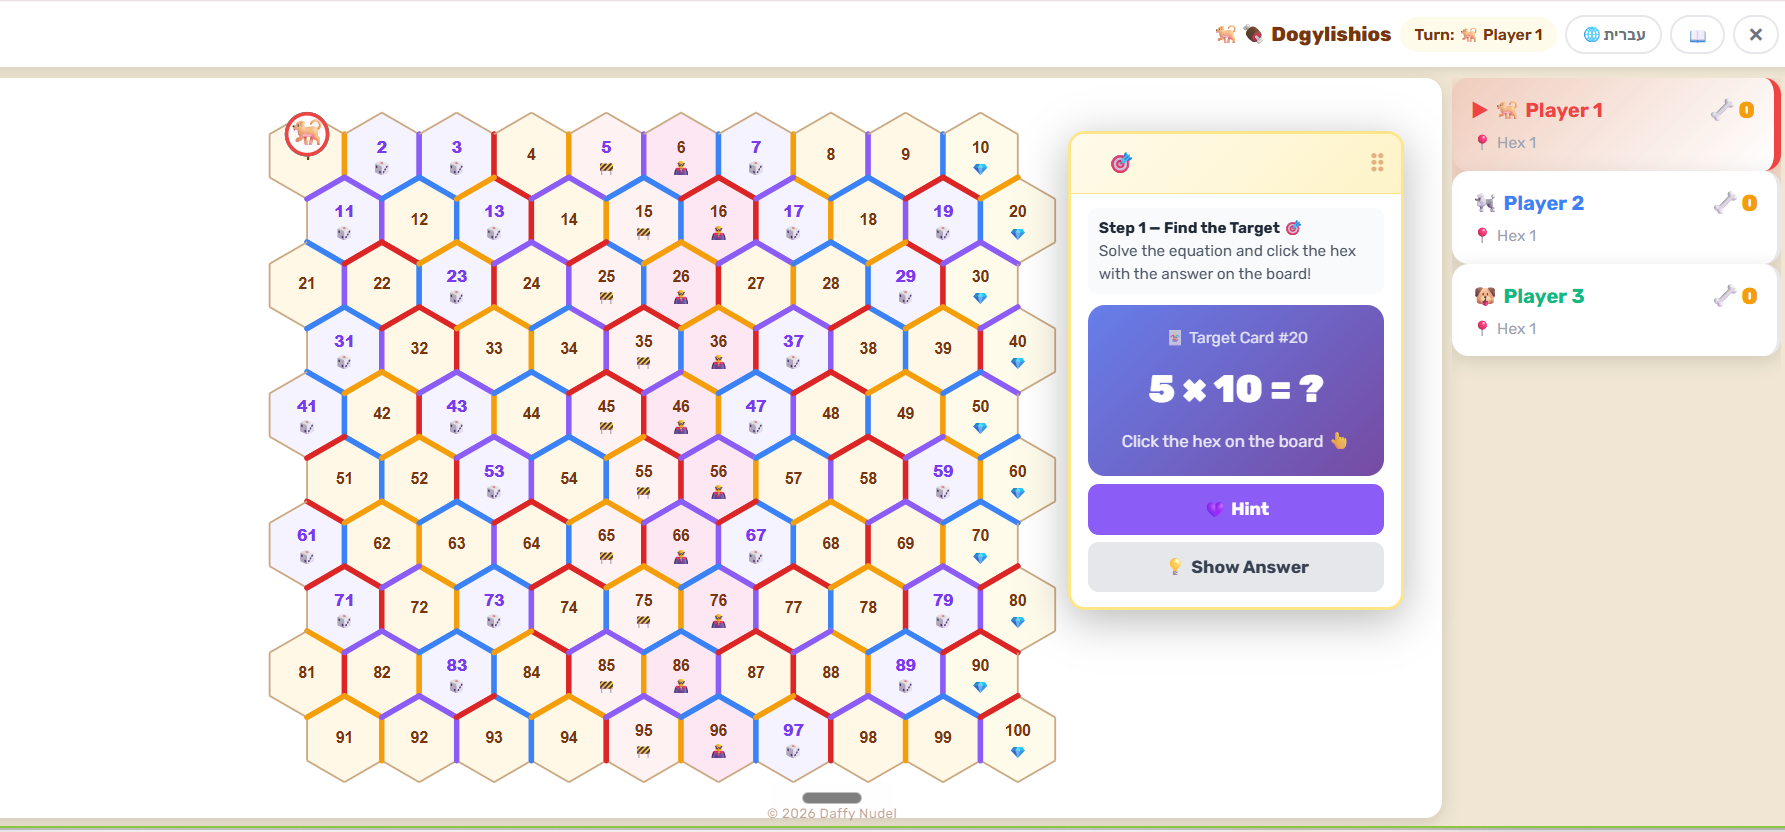
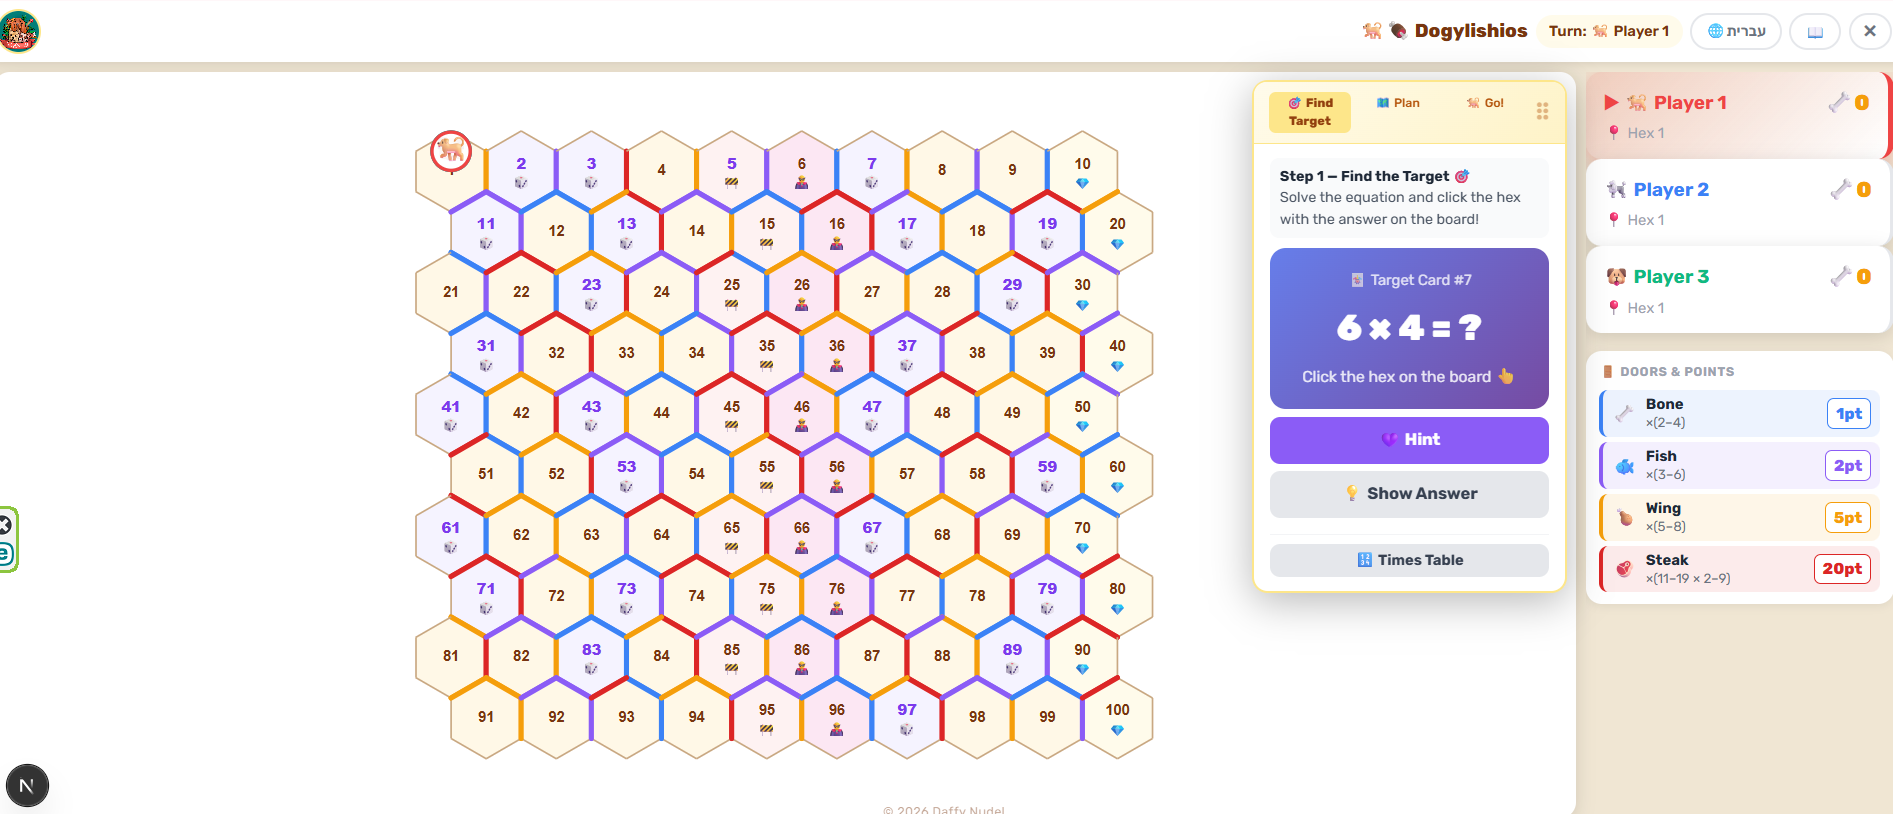
Integrate cropped game screenshots into instruction pages
Updated screenshots and created focused crops:
- Target card crop on "Find the Target" page (replaces SVG/HTML)
- Board crop on "Special Symbols" page (shows real symbols)
- Panel crop on "Plan Route" page (shows door legend)
- Full screenshot on "Game Screen" overview page

Changed region(s): [[0.0, 0.0, 1.0, 1.0], [0.0, 0.6143, 0.0308, 0.7064]]

diff --git a/lib/i18n/he.ts b/lib/i18n/he.ts
@@ -171,12 +171,12 @@ export const he: Dict = {
        {
          i: "🎯",
          t: "שלב 1 — מוצאים את היעד",
-         x: '<div style="display:flex;flex-direction:column;align-items:center;margin:0 0 12px"><div style="display:inline-block;border:2px solid #e2e8f0;border-radius:12px;padding:10px 28px;background:#f8fafc"><div style="font-size:12px;color:#64748b;text-align:center">🎯 כרטיס יעד</div><div style="font-size:22px;font-weight:bold;color:#1e293b;text-align:center;margin-top:4px;direction:ltr;unicode-bidi:bidi-override">6 × 4 = ?</div></div></div>שולפים כרטיס יעד עם תרגיל חשבון, למשל: <strong><span dir="ltr">6 × 4 = ?</span></strong><br><br>פותרים בראש 🧠 ולוחצים על המשושה עם התשובה (24) בלוח!<br><br>טעות? <strong>אפשר לנסות שוב כמה פעמים שרוצים!</strong> 😊<br>רוצים עזרה? אפשר לבחור רמז 💡, או ללחוץ "הראה תשובה".<br><br>ℹ <strong>בשלב הזה אין הגבלת זמן!</strong>',
+         x: '<div style="margin:0 0 10px;border-radius:12px;overflow:hidden;border:2px solid #e2e8f0;max-width:300px;margin-left:auto;margin-right:auto"><img src="/crop-target-he.png" alt="כרטיס היעד" style="width:100%;display:block"/></div>שולפים כרטיס יעד עם תרגיל חשבון, למשל: <strong><span dir="ltr">6 × 4 = ?</span></strong><br><br>פותרים בראש 🧠 ולוחצים על המשושה עם התשובה (24) בלוח!<br><br>טעות? <strong>אפשר לנסות שוב כמה פעמים שרוצים!</strong> 😊<br>רוצים עזרה? אפשר לבחור רמז 💡, או ללחוץ "הראה תשובה".<br><br>ℹ <strong>בשלב הזה אין הגבלת זמן!</strong>',
        },
        {
          i: "🗺",
          t: "שלב 2 — מתכננים מסלול",
-         x: '<div style="display:flex;flex-direction:column;align-items:center;margin:0 0 8px"><svg width="140" height="130" viewBox="-5 0 250 245" xmlns="http://www.w3.org/2000/svg"><polygon points="120,20 207,70 207,170 120,220 33,170 33,70" fill="#FFF8E7" stroke="#C9A882" stroke-width="2"/><line x1="120" y1="20" x2="207" y2="70" stroke="#3B82F6" stroke-width="14" stroke-linecap="round"/><line x1="207" y1="70" x2="207" y2="170" stroke="#8B5CF6" stroke-width="14" stroke-linecap="round"/><line x1="207" y1="170" x2="120" y2="220" stroke="#F59E0B" stroke-width="14" stroke-linecap="round"/><line x1="120" y1="220" x2="33" y2="170" stroke="#EF4444" stroke-width="14" stroke-linecap="round"/><line x1="33" y1="170" x2="33" y2="70" stroke="#DC2626" stroke-width="14" stroke-linecap="round"/><line x1="33" y1="70" x2="120" y2="20" stroke="#3B82F6" stroke-width="14" stroke-linecap="round"/><text x="120" y="120" text-anchor="middle" dominant-baseline="middle" font-size="36" font-weight="700" fill="#78350F" font-family="Arial,sans-serif">42</text></svg></div>לוחצים על משושים לבניית המסלול ליעד.<br>לא לשכוח לסמן גם את משושה היעד עצמו!<br><br>הצבעים מסמנים את קושי התרגיל ומספר הגרגירים שפתירתו ומעבר למשושה הסמוך מוסיפים לבנק:<br><br><div style="display:flex;flex-direction:column;gap:6px;margin:8px 0;font-size:.85em"><div style="padding:6px 10px;background:#EFF6FF;border-radius:8px;border-right:4px solid #3B82F6">🦴 <strong style="color:#3B82F6">כחול — עצם</strong>: לוח הכפל עד 4, למשל <span dir="ltr">3 × 4 = 12</span> — <strong>1 גרגיר</strong> לצעד</div><div style="padding:6px 10px;background:#F5F3FF;border-radius:8px;border-right:4px solid #8B5CF6">🐟 <strong style="color:#8B5CF6">סגול — דג</strong>: לוח הכפל עד 6, למשל <span dir="ltr">4 × 5 = 20</span> — <strong>2 גרגירים</strong> לצעד</div><div style="padding:6px 10px;background:#FFFBEB;border-radius:8px;border-right:4px solid #F59E0B">🍗 <strong style="color:#F59E0B">צהוב — כנף</strong>: לוח הכפל עד 8, למשל <span dir="ltr">6 × 7 = 42</span> — <strong>5 גרגירים</strong> לצעד</div><div style="padding:6px 10px;background:#FEF2F2;border-radius:8px;border-right:4px solid #EF4444">🌭 <strong style="color:#EF4444">אדום — נקניקיה</strong>: לוח הכפל 7–9, למשל <span dir="ltr">8 × 9 = 72</span> — <strong>10 גרגירים</strong> לצעד</div><div style="padding:6px 10px;background:#FEF2F2;border-radius:8px;border-right:4px solid #DC2626">🥩 <strong style="color:#DC2626">אדום-כהה — סטייק</strong>: כפל ארוך, למשל <span dir="ltr">13 × 4 = 52</span> — <strong>20 גרגירים</strong> לצעד</div></div><em style="font-size:.8em;color:#7C3AED">סטייק — רמת גיבור בלבד!</em><br><br>קשה יותר = יותר גרגירים לבנק! 🐶<br><br>💡 <strong>עזרת כיוון:</strong> בזמן הבנייה, המשושים האפשריים הבאים מסומנים בגבול ירוק על הלוח.',
+         x: '<div style="display:flex;flex-direction:column;align-items:center;margin:0 0 8px"><svg width="140" height="130" viewBox="-5 0 250 245" xmlns="http://www.w3.org/2000/svg"><polygon points="120,20 207,70 207,170 120,220 33,170 33,70" fill="#FFF8E7" stroke="#C9A882" stroke-width="2"/><line x1="120" y1="20" x2="207" y2="70" stroke="#3B82F6" stroke-width="14" stroke-linecap="round"/><line x1="207" y1="70" x2="207" y2="170" stroke="#8B5CF6" stroke-width="14" stroke-linecap="round"/><line x1="207" y1="170" x2="120" y2="220" stroke="#F59E0B" stroke-width="14" stroke-linecap="round"/><line x1="120" y1="220" x2="33" y2="170" stroke="#EF4444" stroke-width="14" stroke-linecap="round"/><line x1="33" y1="170" x2="33" y2="70" stroke="#DC2626" stroke-width="14" stroke-linecap="round"/><line x1="33" y1="70" x2="120" y2="20" stroke="#3B82F6" stroke-width="14" stroke-linecap="round"/><text x="120" y="120" text-anchor="middle" dominant-baseline="middle" font-size="36" font-weight="700" fill="#78350F" font-family="Arial,sans-serif">42</text></svg></div>לוחצים על משושים לבניית המסלול ליעד.<br>לא לשכוח לסמן גם את משושה היעד עצמו!<br><br>הצבעים מסמנים את קושי התרגיל ומספר הגרגירים שפתירתו ומעבר למשושה הסמוך מוסיפים לבנק:<br><br><div style="display:flex;flex-direction:column;gap:6px;margin:8px 0;font-size:.85em"><div style="padding:6px 10px;background:#EFF6FF;border-radius:8px;border-right:4px solid #3B82F6">🦴 <strong style="color:#3B82F6">כחול — עצם</strong>: לוח הכפל עד 4, למשל <span dir="ltr">3 × 4 = 12</span> — <strong>1 גרגיר</strong> לצעד</div><div style="padding:6px 10px;background:#F5F3FF;border-radius:8px;border-right:4px solid #8B5CF6">🐟 <strong style="color:#8B5CF6">סגול — דג</strong>: לוח הכפל עד 6, למשל <span dir="ltr">4 × 5 = 20</span> — <strong>2 גרגירים</strong> לצעד</div><div style="padding:6px 10px;background:#FFFBEB;border-radius:8px;border-right:4px solid #F59E0B">🍗 <strong style="color:#F59E0B">צהוב — כנף</strong>: לוח הכפל עד 8, למשל <span dir="ltr">6 × 7 = 42</span> — <strong>5 גרגירים</strong> לצעד</div><div style="padding:6px 10px;background:#FEF2F2;border-radius:8px;border-right:4px solid #EF4444">🌭 <strong style="color:#EF4444">אדום — נקניקיה</strong>: לוח הכפל 7–9, למשל <span dir="ltr">8 × 9 = 72</span> — <strong>10 גרגירים</strong> לצעד</div><div style="padding:6px 10px;background:#FEF2F2;border-radius:8px;border-right:4px solid #DC2626">🥩 <strong style="color:#DC2626">אדום-כהה — סטייק</strong>: כפל ארוך, למשל <span dir="ltr">13 × 4 = 52</span> — <strong>20 גרגירים</strong> לצעד</div></div><em style="font-size:.8em;color:#7C3AED">סטייק — רמת גיבור בלבד!</em><br><br>קשה יותר = יותר גרגירים לבנק! 🐶<br><br>💡 <strong>עזרת כיוון:</strong> בזמן הבנייה, המשושים האפשריים הבאים מסומנים בגבול ירוק על הלוח.<div style="margin:12px 0 4px;border-radius:12px;overflow:hidden;border:2px solid #e2e8f0;max-width:220px;margin-left:auto;margin-right:auto"><img src="/crop-panel-he.png" alt="דלתות ונקודות" style="width:100%;display:block"/></div><div style="font-size:.78em;color:#64748b;text-align:center">📸 סיכום הדלתות בפאנל הצידי</div>',
        },
        {
          i: "✅",
@@ -201,7 +201,7 @@ export const he: Dict = {
        {
          i: "✨",
          t: "סימנים מיוחדים על הלוח",
-         x: '<strong>💎 מספרים עגולים <span dir="ltr">(10, 20, 30...)</span></strong><br>נחתתם כאן? שלופו קלף בונוס! 🎁<br>אולי תקבלו: כפול גרגירים / תור נוסף / +10 גרגירים<br><br><strong>🚧 מסתיימים ב-5 <span dir="ltr">(15, 25, 35...)</span></strong><br>שלופו קלף הגבלה — אתגר לאיסוף!<br>למשל: "מספר הגרגירים חייב להיות זוגי"<br><br><strong>🦹 מסתיימים ב-6 <span dir="ltr">(16, 26, 36...)</span></strong><br>שוד! ✋ אפשר לגנוב גרגירים מיריב!<br><br><strong>🎲 מספרים ראשוניים <span dir="ltr">(2, 3, 5, 7, 11, 13...)</span></strong><br>מספר שמתחלק רק ב-1 ובעצמו!<br>שלופו קלף טוויסט — הכללים משתנים! 🎲',
+         x: '<div style="margin:0 0 10px;border-radius:12px;overflow:hidden;border:2px solid #e2e8f0"><img src="/crop-board-he.png" alt="סימנים בלוח" style="width:100%;display:block"/></div><div style="font-size:.78em;color:#64748b;text-align:center;margin:-4px 0 10px">📸 שימו לב לסמלים על המשושים!</div><strong>💎 מספרים עגולים <span dir="ltr">(10, 20, 30...)</span></strong><br>נחתתם כאן? שלופו קלף בונוס! 🎁<br>אולי תקבלו: כפול גרגירים / תור נוסף / +10 גרגירים<br><br><strong>🚧 מסתיימים ב-5 <span dir="ltr">(15, 25, 35...)</span></strong><br>שלופו קלף הגבלה — אתגר לאיסוף!<br>למשל: "מספר הגרגירים חייב להיות זוגי"<br><br><strong>🦹 מסתיימים ב-6 <span dir="ltr">(16, 26, 36...)</span></strong><br>שוד! ✋ אפשר לגנוב גרגירים מיריב!<br><br><strong>🎲 מספרים ראשוניים <span dir="ltr">(2, 3, 5, 7, 11, 13...)</span></strong><br>מספר שמתחלק רק ב-1 ובעצמו!<br>שלופו קלף טוויסט — הכללים משתנים! 🎲',
        },
        {
          i: "⚙",

diff --git a/lib/i18n/en.ts b/lib/i18n/en.ts
@@ -167,12 +167,12 @@ export const en: Dict = {
        {
          i: "🎯",
          t: "Step 1 — Find the Target",
-         x: '<div style="display:flex;flex-direction:column;align-items:center;margin:0 0 8px"><svg width="180" height="70" viewBox="0 0 180 70" xmlns="http://www.w3.org/2000/svg"><rect x="2" y="2" width="176" height="66" rx="12" fill="#f8fafc" stroke="#e2e8f0" stroke-width="2"/><text x="90" y="22" text-anchor="middle" font-size="12" fill="#64748b">🎯 Target Card</text><text x="90" y="50" text-anchor="middle" font-size="22" font-weight="bold" fill="#1e293b">6 × 4 = ?</text></svg></div>Draw a target card with a math problem, for example: <strong>6 × 4 = ?</strong><br><br>Solve it in your head 🧠 and click the hex with the answer (24) on the board!<br><br>Wrong? <strong>You can try again as many times as you want!</strong> 😊<br>Need help? You can choose a hint 💡, or click "Show Answer".<br><br>ℹ <strong>This step has NO time limit!</strong>',
+         x: '<div style="margin:0 0 10px;border-radius:12px;overflow:hidden;border:2px solid #e2e8f0;max-width:300px;margin-left:auto;margin-right:auto"><img src="/crop-target-en.png" alt="Target Card" style="width:100%;display:block"/></div>Draw a target card with a math problem, for example: <strong>6 × 4 = ?</strong><br><br>Solve it in your head 🧠 and click the hex with the answer (24) on the board!<br><br>Wrong? <strong>You can try again as many times as you want!</strong> 😊<br>Need help? You can choose a hint 💡, or click "Show Answer".<br><br>ℹ <strong>This step has NO time limit!</strong>',
        },
        {
          i: "🗺",
          t: "Step 2 — Plan Your Route",
-         x: '<div style="display:flex;flex-direction:column;align-items:center;margin:0 0 8px"><svg width="140" height="130" viewBox="-5 0 250 245" xmlns="http://www.w3.org/2000/svg"><polygon points="120,20 207,70 207,170 120,220 33,170 33,70" fill="#FFF8E7" stroke="#C9A882" stroke-width="2"/><line x1="120" y1="20" x2="207" y2="70" stroke="#3B82F6" stroke-width="14" stroke-linecap="round"/><line x1="207" y1="70" x2="207" y2="170" stroke="#8B5CF6" stroke-width="14" stroke-linecap="round"/><line x1="207" y1="170" x2="120" y2="220" stroke="#F59E0B" stroke-width="14" stroke-linecap="round"/><line x1="120" y1="220" x2="33" y2="170" stroke="#EF4444" stroke-width="14" stroke-linecap="round"/><line x1="33" y1="170" x2="33" y2="70" stroke="#DC2626" stroke-width="14" stroke-linecap="round"/><line x1="33" y1="70" x2="120" y2="20" stroke="#3B82F6" stroke-width="14" stroke-linecap="round"/><text x="120" y="120" text-anchor="middle" dominant-baseline="middle" font-size="36" font-weight="700" fill="#78350F" font-family="Arial,sans-serif">42</text></svg></div>Click hexes to build your route to the target.<br>Don\'t forget to mark the target hex too!<br><br>The colors show the exercise difficulty and how many pellets you earn for solving it and moving to the next hex:<br><br><div style="display:flex;flex-direction:column;gap:6px;margin:8px 0;font-size:.85em"><div style="padding:6px 10px;background:#EFF6FF;border-radius:8px;border-left:4px solid #3B82F6">🦴 <strong style="color:#3B82F6">Blue — Bone</strong>: Tables up to 4, e.g. <span dir="ltr">3 × 4 = 12</span> — <strong>1 pellet</strong> per step</div><div style="padding:6px 10px;background:#F5F3FF;border-radius:8px;border-left:4px solid #8B5CF6">🐟 <strong style="color:#8B5CF6">Purple — Fish</strong>: Tables up to 6, e.g. <span dir="ltr">4 × 5 = 20</span> — <strong>2 pellets</strong> per step</div><div style="padding:6px 10px;background:#FFFBEB;border-radius:8px;border-left:4px solid #F59E0B">🍗 <strong style="color:#F59E0B">Yellow — Wing</strong>: Tables up to 8, e.g. <span dir="ltr">6 × 7 = 42</span> — <strong>5 pellets</strong> per step</div><div style="padding:6px 10px;background:#FEF2F2;border-radius:8px;border-left:4px solid #EF4444">🌭 <strong style="color:#EF4444">Red — Sausage</strong>: Tables 7–9, e.g. <span dir="ltr">8 × 9 = 72</span> — <strong>10 pellets</strong> per step</div><div style="padding:6px 10px;background:#FEF2F2;border-radius:8px;border-left:4px solid #DC2626">🥩 <strong style="color:#DC2626">Dark Red — Steak</strong>: Long multiplication, e.g. <span dir="ltr">13 × 4 = 52</span> — <strong>20 pellets</strong> per step</div></div><em style="font-size:.8em;color:#7C3AED">Steak — Hero level only!</em><br><br>Harder = more pellets in the bank! 🐶<br><br>💡 <strong>Direction guide:</strong> While building, the next valid hexes are highlighted with a green border on the board.',
+         x: '<div style="display:flex;flex-direction:column;align-items:center;margin:0 0 8px"><svg width="140" height="130" viewBox="-5 0 250 245" xmlns="http://www.w3.org/2000/svg"><polygon points="120,20 207,70 207,170 120,220 33,170 33,70" fill="#FFF8E7" stroke="#C9A882" stroke-width="2"/><line x1="120" y1="20" x2="207" y2="70" stroke="#3B82F6" stroke-width="14" stroke-linecap="round"/><line x1="207" y1="70" x2="207" y2="170" stroke="#8B5CF6" stroke-width="14" stroke-linecap="round"/><line x1="207" y1="170" x2="120" y2="220" stroke="#F59E0B" stroke-width="14" stroke-linecap="round"/><line x1="120" y1="220" x2="33" y2="170" stroke="#EF4444" stroke-width="14" stroke-linecap="round"/><line x1="33" y1="170" x2="33" y2="70" stroke="#DC2626" stroke-width="14" stroke-linecap="round"/><line x1="33" y1="70" x2="120" y2="20" stroke="#3B82F6" stroke-width="14" stroke-linecap="round"/><text x="120" y="120" text-anchor="middle" dominant-baseline="middle" font-size="36" font-weight="700" fill="#78350F" font-family="Arial,sans-serif">42</text></svg></div>Click hexes to build your route to the target.<br>Don\'t forget to mark the target hex too!<br><br>The colors show the exercise difficulty and how many pellets you earn for solving it and moving to the next hex:<br><br><div style="display:flex;flex-direction:column;gap:6px;margin:8px 0;font-size:.85em"><div style="padding:6px 10px;background:#EFF6FF;border-radius:8px;border-left:4px solid #3B82F6">🦴 <strong style="color:#3B82F6">Blue — Bone</strong>: Tables up to 4, e.g. <span dir="ltr">3 × 4 = 12</span> — <strong>1 pellet</strong> per step</div><div style="padding:6px 10px;background:#F5F3FF;border-radius:8px;border-left:4px solid #8B5CF6">🐟 <strong style="color:#8B5CF6">Purple — Fish</strong>: Tables up to 6, e.g. <span dir="ltr">4 × 5 = 20</span> — <strong>2 pellets</strong> per step</div><div style="padding:6px 10px;background:#FFFBEB;border-radius:8px;border-left:4px solid #F59E0B">🍗 <strong style="color:#F59E0B">Yellow — Wing</strong>: Tables up to 8, e.g. <span dir="ltr">6 × 7 = 42</span> — <strong>5 pellets</strong> per step</div><div style="padding:6px 10px;background:#FEF2F2;border-radius:8px;border-left:4px solid #EF4444">🌭 <strong style="color:#EF4444">Red — Sausage</strong>: Tables 7–9, e.g. <span dir="ltr">8 × 9 = 72</span> — <strong>10 pellets</strong> per step</div><div style="padding:6px 10px;background:#FEF2F2;border-radius:8px;border-left:4px solid #DC2626">🥩 <strong style="color:#DC2626">Dark Red — Steak</strong>: Long multiplication, e.g. <span dir="ltr">13 × 4 = 52</span> — <strong>20 pellets</strong> per step</div></div><em style="font-size:.8em;color:#7C3AED">Steak — Hero level only!</em><br><br>Harder = more pellets in the bank! 🐶<br><br>💡 <strong>Direction guide:</strong> While building, the next valid hexes are highlighted with a green border on the board.<div style="margin:12px 0 4px;border-radius:12px;overflow:hidden;border:2px solid #e2e8f0;max-width:220px;margin-left:auto;margin-right:auto"><img src="/crop-panel-en.png" alt="Doors &amp; Points" style="width:100%;display:block"/></div><div style="font-size:.78em;color:#64748b;text-align:center">📸 Door summary in the side panel</div>',
        },
        {
          i: "✅",
@@ -197,7 +197,7 @@ export const en: Dict = {
        {
          i: "✨",
          t: "Special Symbols on the Board",
-         x: '<strong>💎 Round numbers (10, 20, 30...)</strong><br>Landed here? Draw a Bonus card! 🎁<br>You might get: double pellets / extra turn / +10 pellets<br><br><strong>🚧 Numbers ending in 5 (15, 25, 35...)</strong><br>Draw a Limit card — a challenge for collecting!<br>Example: "Your pellets must be even"<br><br><strong>🦹 Numbers ending in 6 (16, 26, 36...)</strong><br>Steal! ✋ You can steal pellets from a rival!<br><br><strong>🎲 Prime numbers (2, 3, 5, 7, 11, 13...)</strong><br>A number that can only be divided by 1 and itself!<br>Draw a Twist card — the rules change! 🎲',
+         x: '<div style="margin:0 0 10px;border-radius:12px;overflow:hidden;border:2px solid #e2e8f0"><img src="/crop-board-en.png" alt="Board symbols" style="width:100%;display:block"/></div><div style="font-size:.78em;color:#64748b;text-align:center;margin:-4px 0 10px">📸 Notice the symbols on the hexes!</div><strong>💎 Round numbers (10, 20, 30...)</strong><br>Landed here? Draw a Bonus card! 🎁<br>You might get: double pellets / extra turn / +10 pellets<br><br><strong>🚧 Numbers ending in 5 (15, 25, 35...)</strong><br>Draw a Limit card — a challenge for collecting!<br>Example: "Your pellets must be even"<br><br><strong>🦹 Numbers ending in 6 (16, 26, 36...)</strong><br>Steal! ✋ You can steal pellets from a rival!<br><br><strong>🎲 Prime numbers (2, 3, 5, 7, 11, 13...)</strong><br>A number that can only be divided by 1 and itself!<br>Draw a Twist card — the rules change! 🎲',
        },
        {
          i: "⚙",
